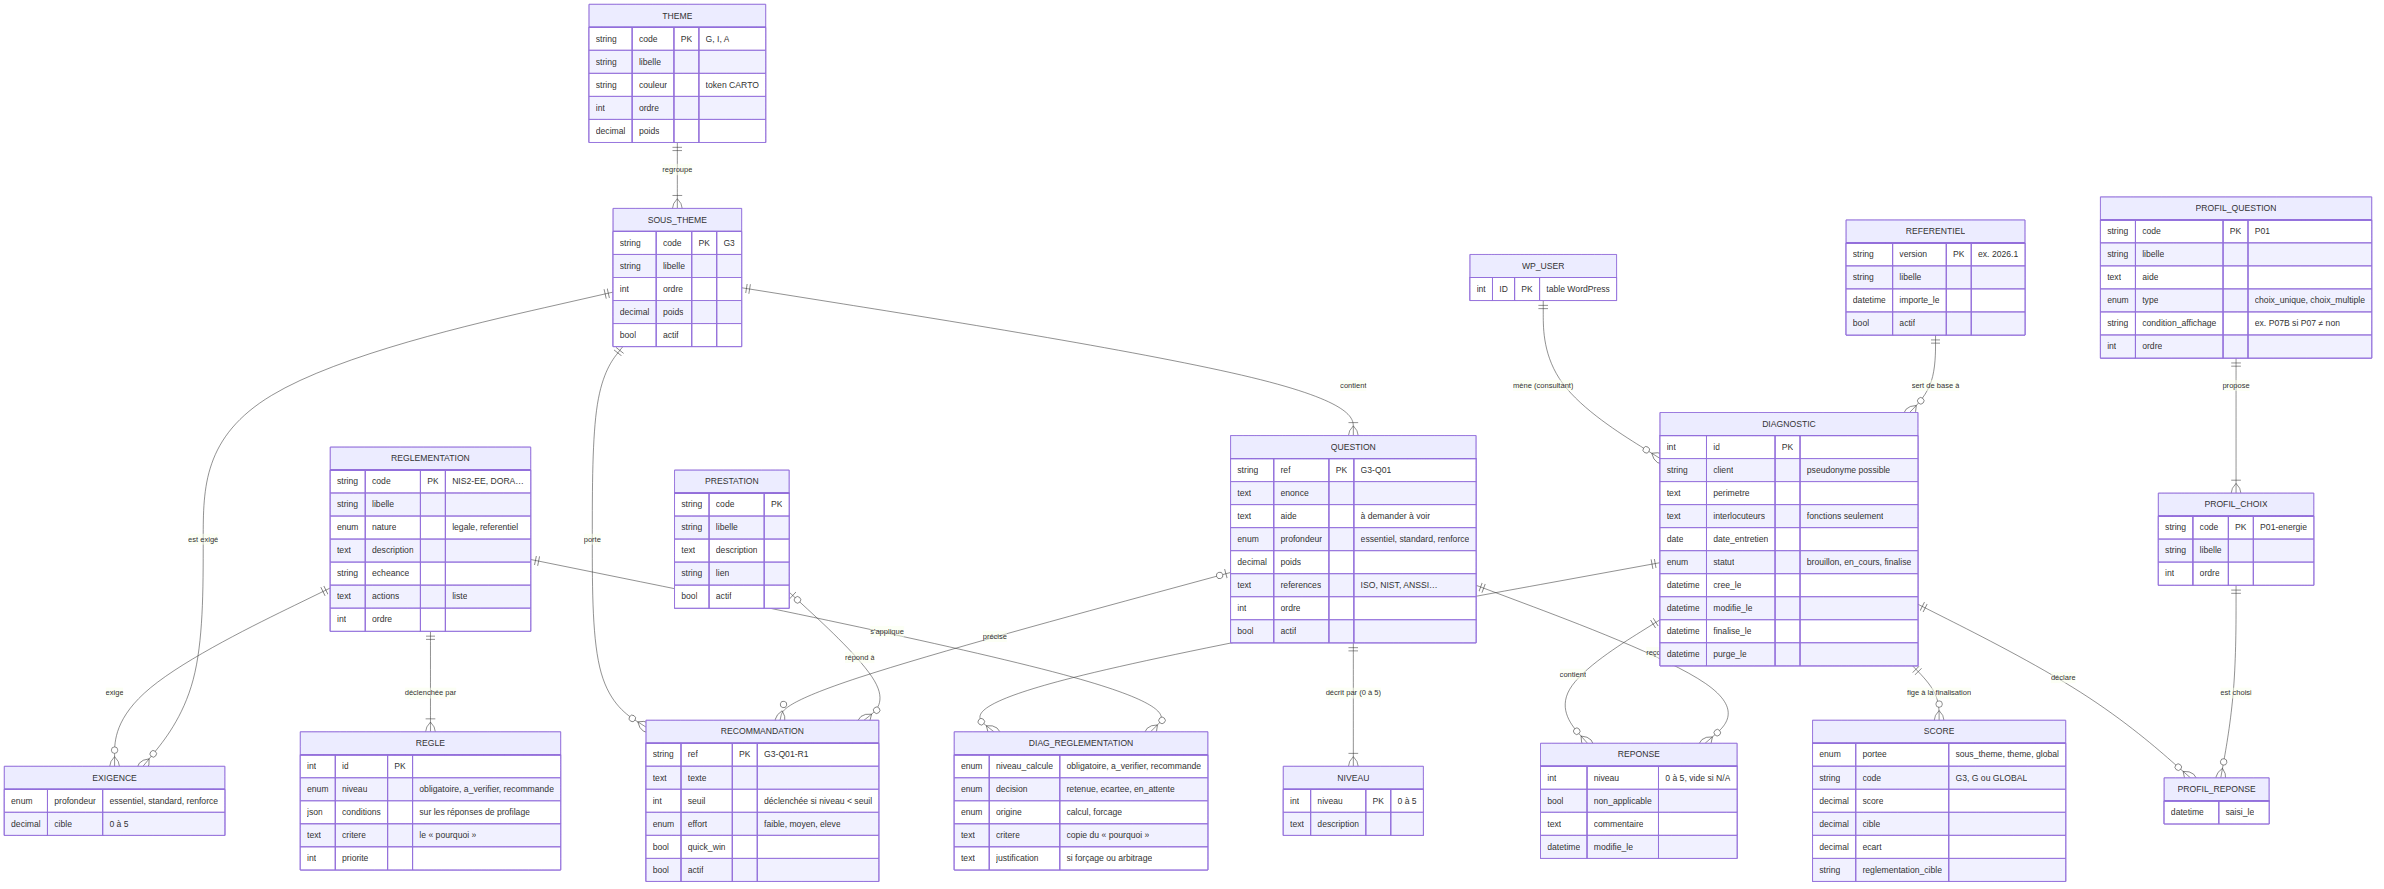
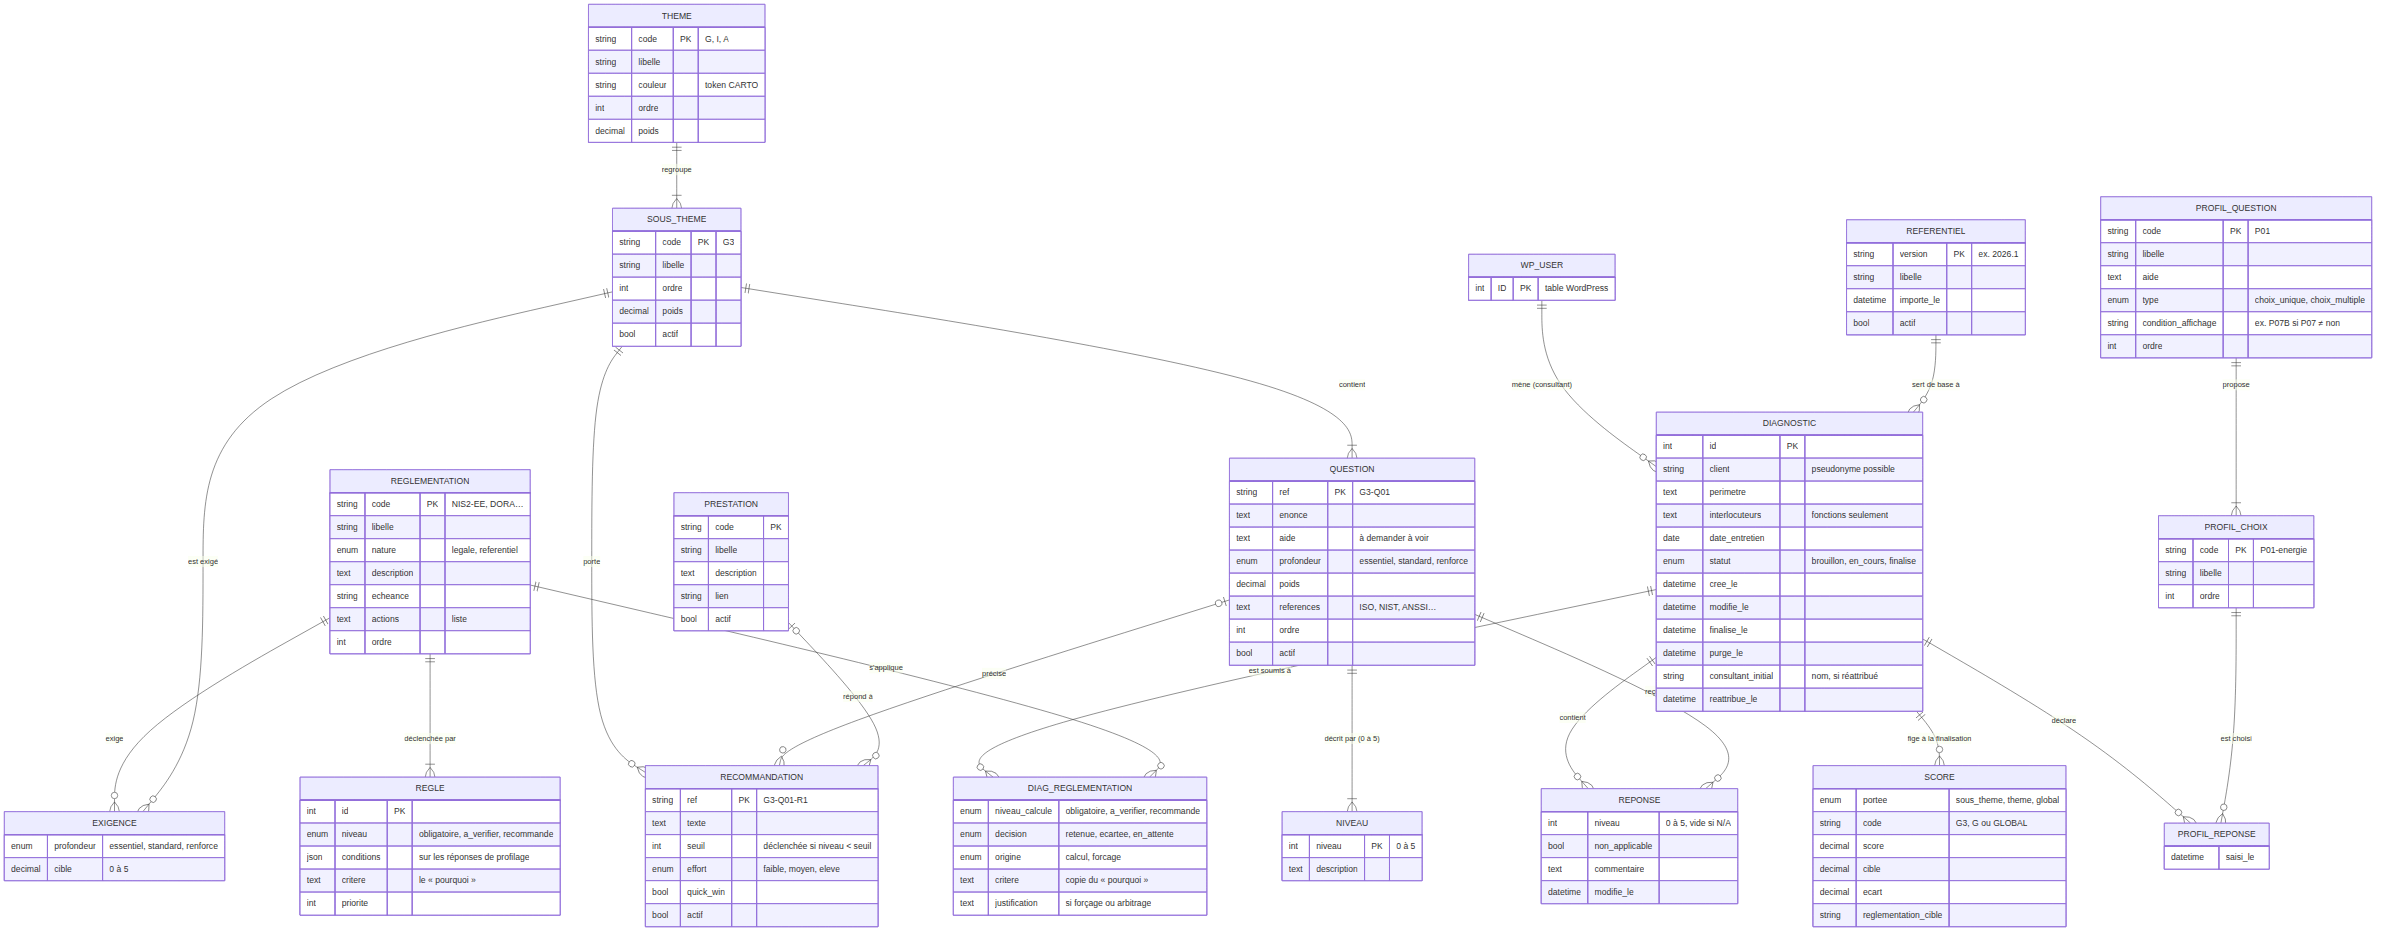
Réattribuer à l'administrateur les diagnostics d'un consultant supprimé
Claude-Session: https://claude.ai/code/session_017Mj2n68QmktnVwD54Pm2Qt

diff --git a/docs/mcd.md b/docs/mcd.md
@@ -141,6 +141,8 @@ erDiagram
         datetime modifie_le
         datetime finalise_le
         datetime purge_le
+        string consultant_initial "nom, si réattribué"
+        datetime reattribue_le
     }
     PROFIL_REPONSE {
         datetime saisi_le
@@ -232,6 +234,24 @@ erDiagram
    profilage change en cours de route, les réponses déjà saisies à des
    questions qui ne sont plus posées sont conservées mais ignorées du calcul.
 
+   *Exemple.* Une PME de services numériques. Au profilage, aucun lien avec
+   la finance : I6 « Sauvegardes » est en profondeur `standard`, le
+   questionnaire pose I6-Q01 et I6-Q02. En entretien, on apprend que le
+   client héberge l'outil de gestion d'une banque : le consultant corrige P06
+   (« prestataire IT pour la finance »), DORA est retenu, I6 passe en
+   `renforce` et la question I6-Q03 apparaît, à remplir. Les réponses à
+   I6-Q01 et I6-Q02 sont intactes.
+
+   Cas inverse : P13 avait été coché par erreur, le CRA était retenu et la
+   question A3-Q04 (`renforce`, SBOM) a reçu une réponse. Le consultant
+   corrige P13, le CRA est écarté, A3 redescend en `standard` : A3-Q04
+   disparaît du questionnaire et du calcul, mais sa réponse reste en base. Si
+   le CRA est de nouveau retenu, elle réapparaît sans ressaisie.
+
+   À la finalisation, SCORE fige ce qui a réellement compté ; les réponses
+   hors périmètre restent en base (traçabilité) mais n'apparaissent pas dans
+   le rapport.
+
 7. **SCORE fige les résultats à la finalisation** (score, cible, écart,
    réglementation qui fixe la cible). Le rapport d'un diagnostic finalisé ne
    bouge donc plus, même si le référentiel change. C'est aussi la base de la
@@ -246,8 +266,12 @@ erDiagram
    - Un diagnostic **jamais finalisé** est purgé selon la même durée,
      comptée depuis sa dernière modification, pour éviter les brouillons
      oubliés.
-   - Si un consultant est supprimé de WordPress, ses diagnostics le sont
-     aussi.
+   - Si un consultant est supprimé de WordPress, ses diagnostics sont
+     **réattribués à l'administrateur** (compte désigné dans les réglages,
+     par défaut le premier administrateur), pour la traçabilité. Le nom du
+     consultant d'origine et la date sont conservés dans `consultant_initial`
+     et `reattribue_le`. La purge selon la durée de conservation continue de
+     s'appliquer à ces diagnostics.
 
 9. **Pas de clés étrangères déclarées en base**, comme dans le quiz :
    `dbDelta` les gère mal. L'intégrité (suppressions en cascade, contrôles)
